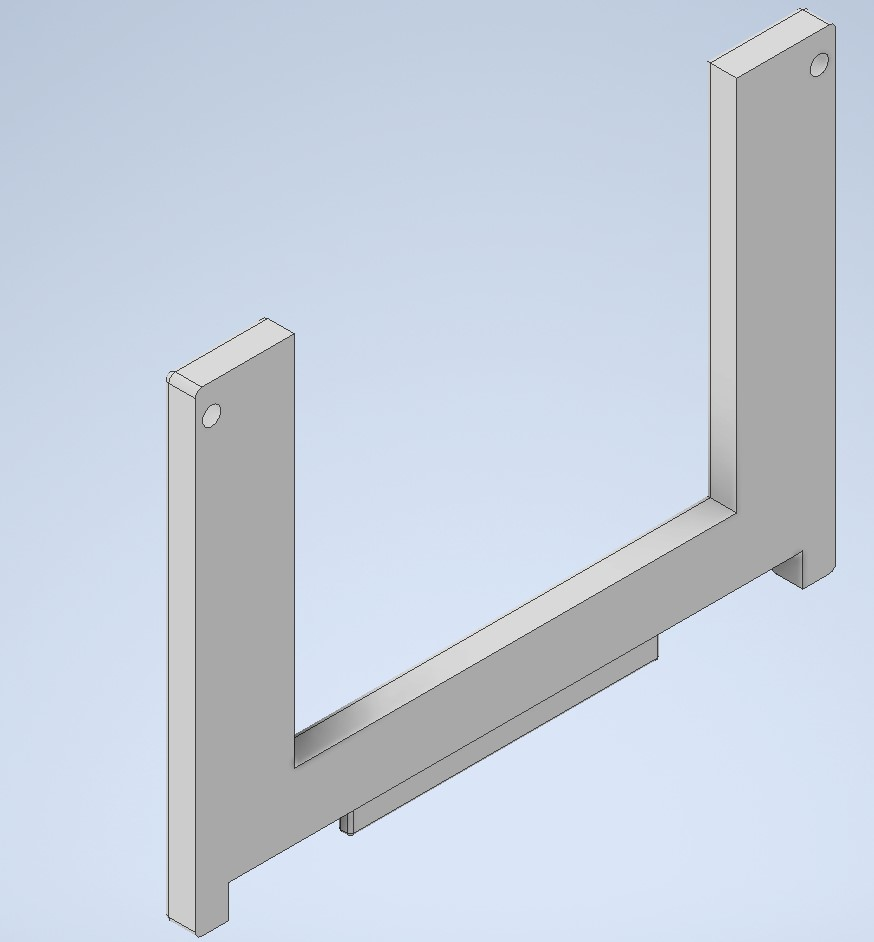
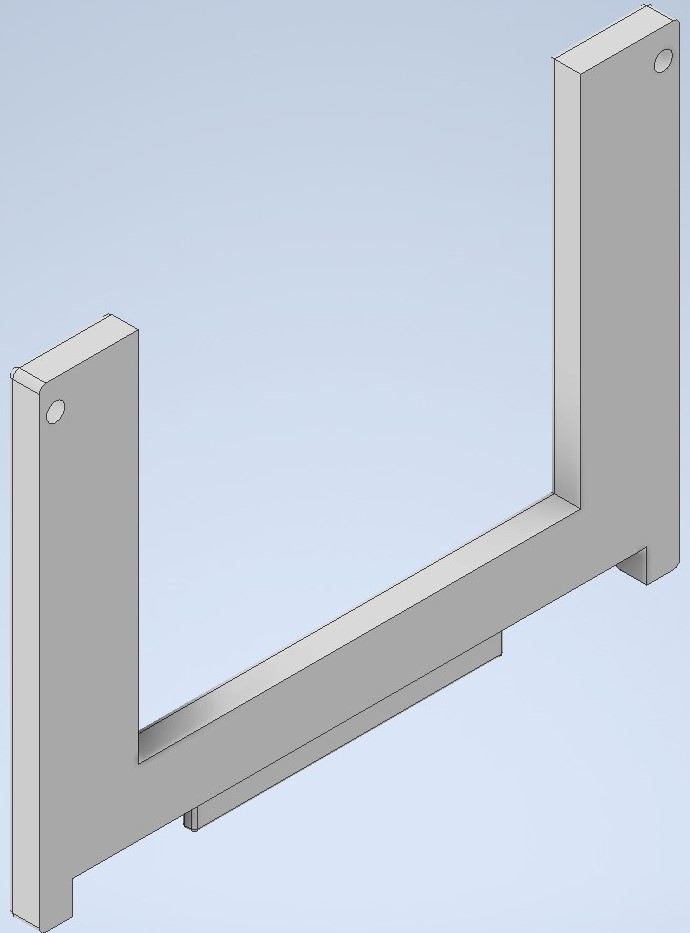
Change and addition of pictures for "Building the hardware"

Changed region(s): [[0.0, 0.0311, 0.8522, 1.0], [0.8522, 0.0, 1.0, 0.6527], [0.7913, 0.6217, 0.8217, 0.6527]]

diff --git a/source/Building_the_Hardware.rst b/source/Building_the_Hardware.rst
@@ -47,6 +47,7 @@ Off-the-shelf
 
      We do not use the feet of the frame but instead 3D print custom feet as to reserve more space for additional hardware (e.g., an encoder mechnism for payload transport) at the bottom part of the UAV.
 
+(updated)
   .. admonition:: todo
 
      make sure the picture gets cropped (as to delete the excessive white borders)
@@ -73,6 +74,7 @@ Off-the-shelf
 
      Pixhawk 4 PDB
 
+(updated)
   .. admonition:: todo
 
      replace with higher resolution picture
@@ -88,6 +90,7 @@ Off-the-shelf
 
      Pixhawk 4 GPS
 
+(updated)
   .. admonition:: todo
 
      replace with higher resolution picture and make sure the picture cropped (as to delete the grey bottom reactangle)
@@ -103,6 +106,7 @@ Off-the-shelf
 
      Tarot 4114 320KV Multi-Rotor brushless motor
   
+(updated)
   .. admonition:: todo
 
      make sure the picture gets cropped (as to delete the excessive grey borders)
@@ -129,6 +133,7 @@ Off-the-shelf
 
       Turnigy MultiStar BLheli_32 ARM 51A Race Spec ESC 2~6S
 
+(updated)
    .. admonition:: todo
 
      make sure the picture gets cropped (as to delete the excessive grey borders)
@@ -144,6 +149,7 @@ Off-the-shelf
 
       Turnigy Graphene Professional 12000mAh 6S15C LiPo Pack
 
+(updated)
    .. admonition:: todo
 
      make sure the picture gets cropped (as to delete the excessive grey borders)
@@ -159,6 +165,7 @@ Off-the-shelf
 
      Hitec Optima SL
 
+(updated)
 .. admonition:: todo
 
      make sure the picture gets cropped (as to delete the excessive grey borders)
@@ -174,6 +181,7 @@ Off-the-shelf
 
      Hitec Flash 8
 
+(updated)
   .. admonition:: todo
 
      make sure the picture gets cropped (as to delete the excessive grey borders)
@@ -197,7 +205,7 @@ Off-the-shelf
       * 3 x this used for that
       * 5 x this used for that
 
-
+still to be done. I'll try to get clearer on the explanations.
   .. admonition:: todo
 
      add here all screws, nuts, and their sizes, and other things like tape, straps, jumper cables, soldering iron, cables (which type of cable thickness and flexible), connectors (all yellow connectors or metal connectors to power things) and explain for what these are used.
@@ -237,7 +245,10 @@ Off-the-shelf
 * **DC-DC converter**: enables to provide the appropriate supply voltage to the companion computer which is typically in a different range of voltage/current/power as the battery.
 
   *Choice*: Wingoneer XL4016E1 (input: 4-40V, output: 1.25-36V at max 8A, max power: 200W). Since the 6S LiPo battery (i.e., a Turnigy Graphene Professional 12000mAh 6S15C LiPo Pack) provides at most 25.2V and at least 18.0V and the Intel NUC companion computer needs a supply voltage between 12V and 19V and has a rated power supply of 19V/6.33A, the converter must be able to take 18V-25.2V in and deliver 19V/6.33A (or 121W).
+You can find `here https://www.alldatasheet.com/datasheet-pdf/pdf/1134370/XLSEMI/XL4016E1.html>`__ the datasheet of the XL4016E1. 
+Go `here <https://www.amazon.fr/WINGONEER-R%C3%A9gulateur-convertisseur-Efficacit%C3%A9-Alimentation/dp/B071L34ZXB>`__ for more information about the Wingoneer circuit and where to buy it.
 
+(updated)
     .. admonition:: todo
 
      add links to datasheets onlien and cite the pages where you found this info. 
@@ -343,9 +354,15 @@ We 3D print all these pieces with 20% infill:
 
      Motor fixed to Motor top fixation
 
+(updated)
   .. admonition:: todo
 
      for completeness add picture of how Motor bottom fixation is used to connect frame to Motor top fixation
+
+  .. figure:: _static/motor_on_arm_cad_1.jpg
+     :width: 800
+     :alt: alternate text
+     :align: center
 
 
 * **Leg (x 4)**: used to support the drone while on the ground.
@@ -359,6 +376,7 @@ We 3D print all these pieces with 20% infill:
 
 * **Battery case with side (x 2), front (x 1) and core (x 1) piece**: used to attach the battery to the frame.
 
+(updated) Also updated the picture of the assembly.
   .. admonition:: todo
 
      add pictures of all pieces
@@ -370,6 +388,34 @@ We 3D print all these pieces with 20% infill:
      :align: center
      
      Battery case
+
+  .. figure:: _static/bottom_battery.jpg
+     :width: 800
+     :alt: alternate text
+     :align: center
+     
+     Bottom of the battery case
+
+  .. figure:: _static/battery_front.jpg
+     :width: 800
+     :alt: alternate text
+     :align: center
+     
+     Front of the battery case
+
+  .. figure:: _static/sideR_battery.jpg
+     :width: 800
+     :alt: alternate text
+     :align: center
+     
+     Right side of the battery case
+
+  .. figure:: _static/sideL_battery.jpg
+     :width: 800
+     :alt: alternate text
+     :align: center
+     
+     Left side of the battery case
 
 Step-by-step assembly instructions
 ^^^^^^^^^^^^^^^^^^^^^^^^^^^^^^^^^^^
@@ -463,11 +509,6 @@ In this section you will learn how to fix all the components on their (custom-ma
 
 6. Fix the "Motor bottom fixation" piece to the frame's part (shown in next figure) with 4x M3 bolts (head on bottom).
 
-(updated)
-  .. figure:: _static/step6.jpg
-     :width: 800
-     :alt: alternate textCenterpiecepart2front
-  .. admonition:: todo
 
 (updated)
   .. figure:: _static/step6.jpg
@@ -477,12 +518,23 @@ In this section you will learn how to fix all the components on their (custom-ma
 
       Step 6
 
+7. Put 2 straps in it through the side windows. The loops will be done downward.
+
+  .. figure:: _static/step7.jpg
+     :width: 800
+     :alt: alternate text
+     :align: center
+
+      Step 7
+
 8. Fix the assembly to the end of an arm, using the bolts and parts (orange and blue) provided with the frame. 
 
   .. figure:: _static/motor_bottom.jpg
      :width: 800
      :alt: alternate text
      :align: center
+
+     Step 8
 
      todo: caption
 
@@ -497,6 +549,8 @@ In this section you will learn how to fix all the components on their (custom-ma
      :width: 800
      :alt: alternate text
      :align: center
+
+     Step 9
 
      todo caption
 
